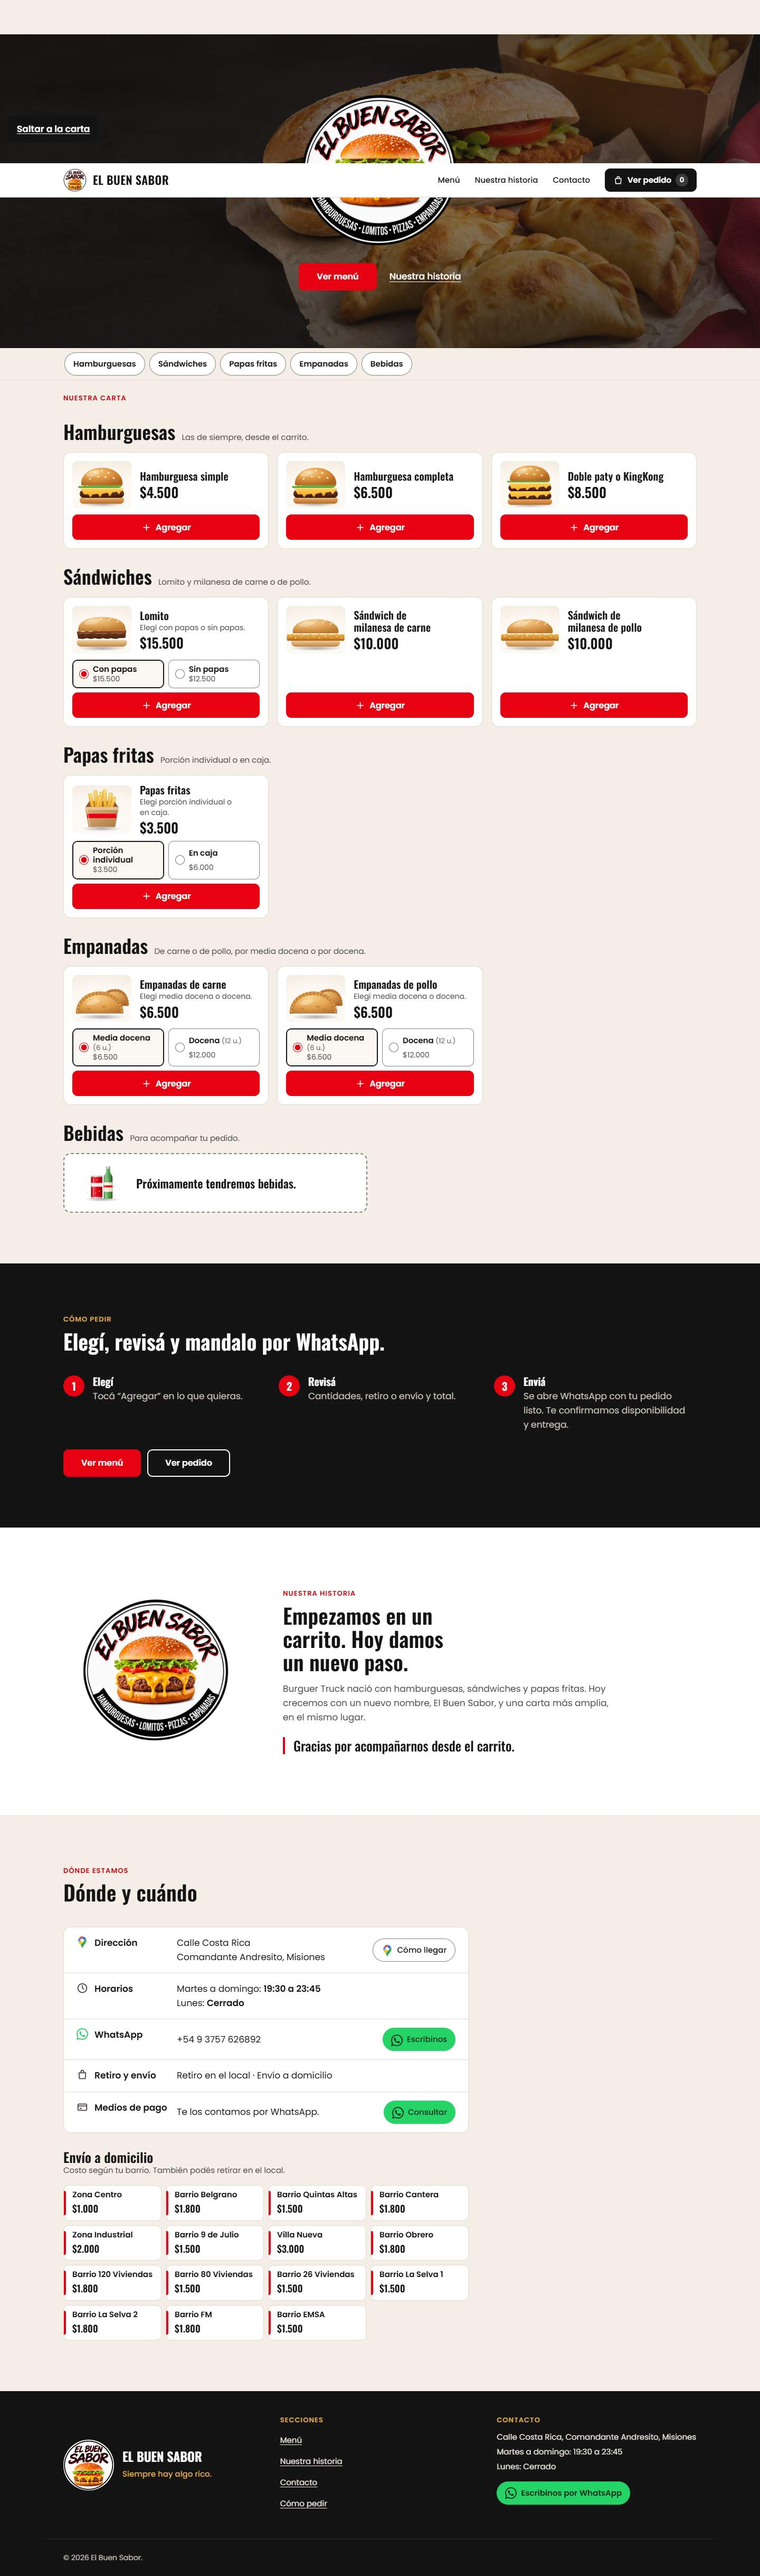
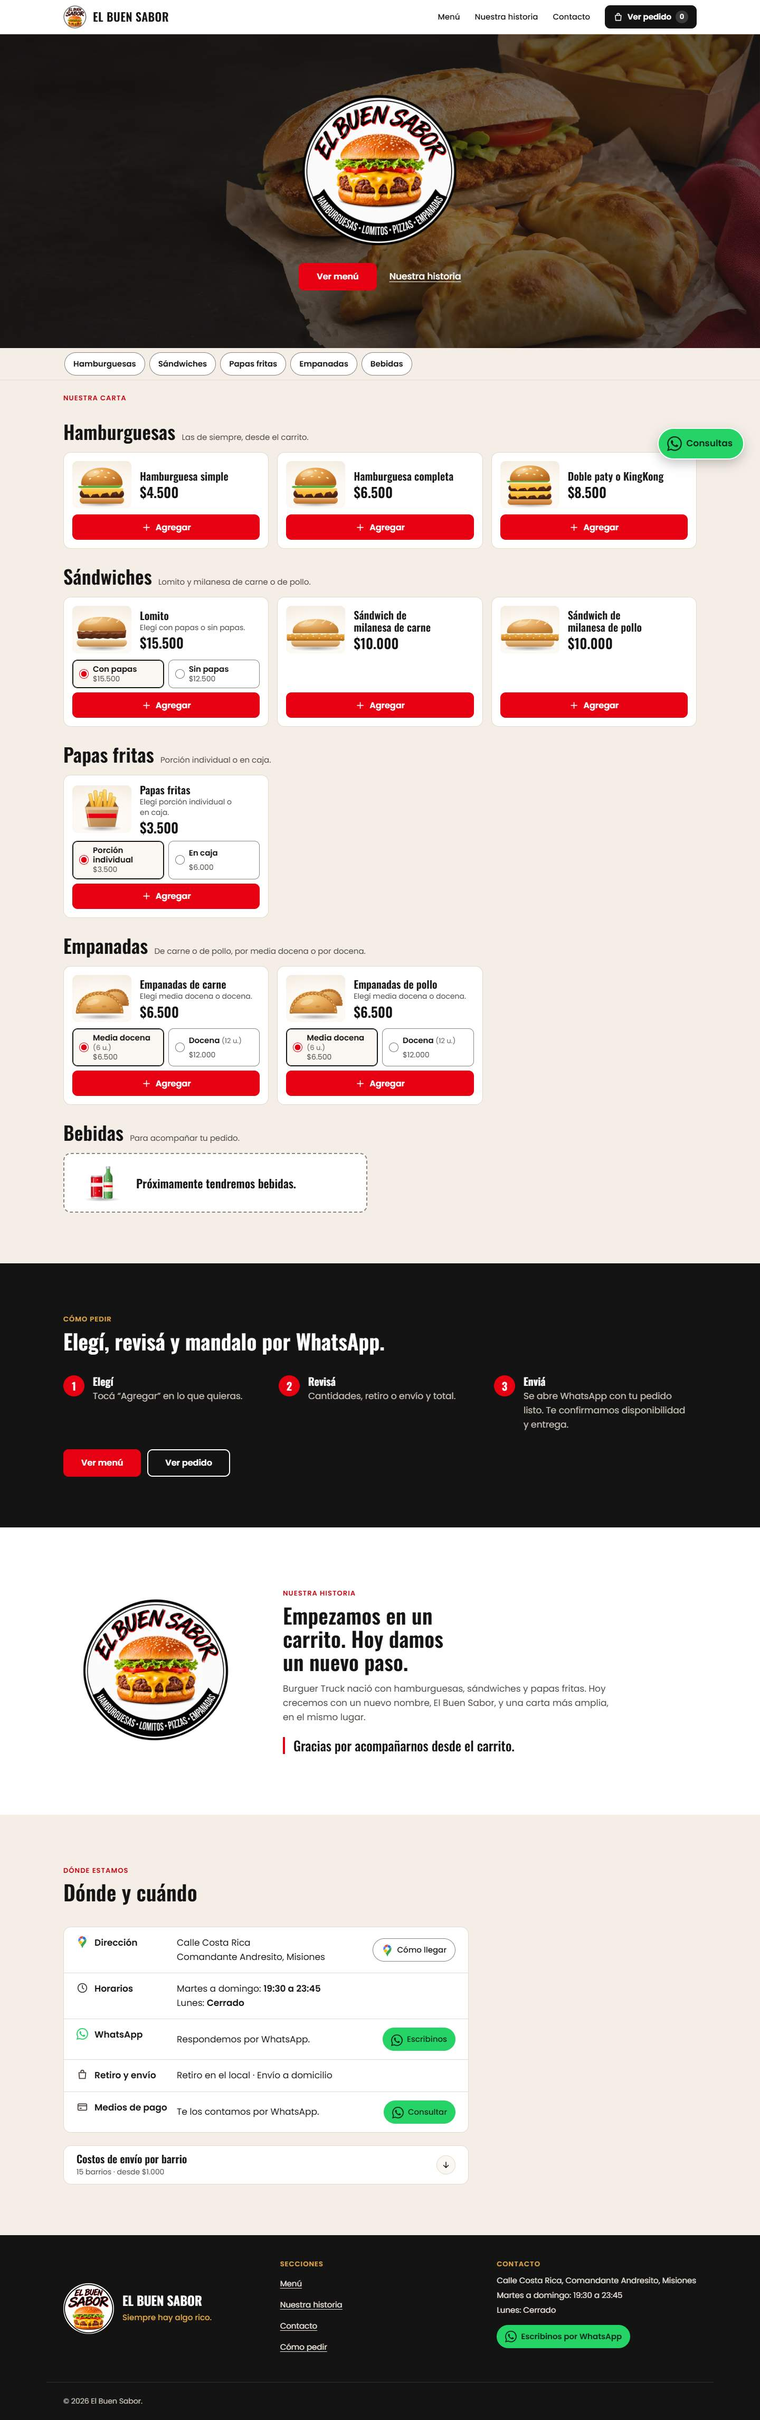
Barrios en desplegable, número oculto y botón flotante de WhatsApp
- Costos de envío por barrio dentro de un desplegable propio, cerrado por
  defecto (funciona con teclado y sin JavaScript).
- Sin número visible: el contacto es el botón con el logo de WhatsApp.
- Botón flotante de WhatsApp para consultas; sube cuando aparece la barra
  "Ver pedido" para no taparla.

Changed region(s): [[0.0, 0.0, 1.0, 0.9987], [0.1562, 0.0, 0.2188, 0.0312], [0.0938, 0.0, 0.125, 0.0312]]

diff --git a/index.html b/index.html
@@ -129,7 +129,7 @@
           <p class="eyebrow">Dónde estamos</p>
           <h2 class="section-title" id="location-title">Dónde y cuándo</h2>
         </header>
-        <!-- build:local-info --><dl class="info-list"><div class="info-list__row"><svg class="icon icon--logo" aria-hidden="true" focusable="false"><use href="#i-logo-maps"></use></svg><dt>Dirección</dt><dd><span>Calle Costa Rica<br>Comandante Andresito, Misiones</span><a class="btn-maps" href="https://maps.app.goo.gl/rrjarzStdaCkGc1o9" target="_blank" rel="noopener noreferrer"><svg class="icon icon--logo" aria-hidden="true" focusable="false"><use href="#i-logo-maps"></use></svg><span>Cómo llegar</span><span class="visually-hidden"> (se abre Google Maps)</span></a></dd></div><div class="info-list__row"><svg class="icon" aria-hidden="true" focusable="false"><use href="#i-clock"></use></svg><dt>Horarios</dt><dd><ul class="plain" role="list"><li>Martes a domingo: <strong>19:30 a 23:45</strong></li><li>Lunes: <strong>Cerrado</strong></li></ul></dd></div><div class="info-list__row"><svg class="icon icon--logo icon--wa" aria-hidden="true" focusable="false"><use href="#i-logo-whatsapp"></use></svg><dt>WhatsApp</dt><dd><span>+54 9 3757 626892</span><a class="btn-wa" href="https://wa.me/5493757626892?text=Hola%2C%20El%20Buen%20Sabor.%20Quiero%20hacer%20una%20consulta." target="_blank" rel="noopener noreferrer"><svg class="icon icon--logo" aria-hidden="true" focusable="false"><use href="#i-logo-whatsapp"></use></svg><span>Escribinos</span><span class="visually-hidden"> (se abre WhatsApp)</span></a></dd></div><div class="info-list__row"><svg class="icon" aria-hidden="true" focusable="false"><use href="#i-bag"></use></svg><dt>Retiro y envío</dt><dd>Retiro en el local · Envío a domicilio</dd></div><div class="info-list__row"><svg class="icon" aria-hidden="true" focusable="false"><use href="#i-card"></use></svg><dt>Medios de pago</dt><dd><span>Te los contamos por WhatsApp.</span><a class="btn-wa" href="https://wa.me/5493757626892?text=Hola%2C%20%C2%BFcu%C3%A1les%20son%20los%20medios%20de%20pago%3F" target="_blank" rel="noopener noreferrer"><svg class="icon icon--logo" aria-hidden="true" focusable="false"><use href="#i-logo-whatsapp"></use></svg><span>Consultar</span><span class="visually-hidden"> (se abre WhatsApp)</span></a></dd></div></dl><section class="zones" aria-labelledby="zones-title"><div class="zones__head"><h3 class="zones__title" id="zones-title">Envío a domicilio</h3><p class="zones__sub">Costo según tu barrio. También podés retirar en el local.</p></div><ul class="zones__list" role="list"><li class="zones__item"><span class="zones__name">Zona Centro</span><span class="zones__fee">$1.000</span></li><li class="zones__item"><span class="zones__name">Barrio Belgrano</span><span class="zones__fee">$1.800</span></li><li class="zones__item"><span class="zones__name">Barrio Quintas Altas</span><span class="zones__fee">$1.500</span></li><li class="zones__item"><span class="zones__name">Barrio Cantera</span><span class="zones__fee">$1.800</span></li><li class="zones__item"><span class="zones__name">Zona Industrial</span><span class="zones__fee">$2.000</span></li><li class="zones__item"><span class="zones__name">Barrio 9 de Julio</span><span class="zones__fee">$1.500</span></li><li class="zones__item"><span class="zones__name">Villa Nueva</span><span class="zones__fee">$3.000</span></li><li class="zones__item"><span class="zones__name">Barrio Obrero</span><span class="zones__fee">$1.800</span></li><li class="zones__item"><span class="zones__name">Barrio 120 Viviendas</span><span class="zones__fee">$1.800</span></li><li class="zones__item"><span class="zones__name">Barrio 80 Viviendas</span><span class="zones__fee">$1.500</span></li><li class="zones__item"><span class="zones__name">Barrio 26 Viviendas</span><span class="zones__fee">$1.500</span></li><li class="zones__item"><span class="zones__name">Barrio La Selva 1</span><span class="zones__fee">$1.500</span></li><li class="zones__item"><span class="zones__name">Barrio La Selva 2</span><span class="zones__fee">$1.800</span></li><li class="zones__item"><span class="zones__name">Barrio FM</span><span class="zones__fee">$1.800</span></li><li class="zones__item"><span class="zones__name">Barrio EMSA</span><span class="zones__fee">$1.500</span></li></ul></section><!-- /build:local-info -->
+        <!-- build:local-info --><dl class="info-list"><div class="info-list__row"><svg class="icon icon--logo" aria-hidden="true" focusable="false"><use href="#i-logo-maps"></use></svg><dt>Dirección</dt><dd><span>Calle Costa Rica<br>Comandante Andresito, Misiones</span><a class="btn-maps" href="https://maps.app.goo.gl/rrjarzStdaCkGc1o9" target="_blank" rel="noopener noreferrer"><svg class="icon icon--logo" aria-hidden="true" focusable="false"><use href="#i-logo-maps"></use></svg><span>Cómo llegar</span><span class="visually-hidden"> (se abre Google Maps)</span></a></dd></div><div class="info-list__row"><svg class="icon" aria-hidden="true" focusable="false"><use href="#i-clock"></use></svg><dt>Horarios</dt><dd><ul class="plain" role="list"><li>Martes a domingo: <strong>19:30 a 23:45</strong></li><li>Lunes: <strong>Cerrado</strong></li></ul></dd></div><div class="info-list__row"><svg class="icon icon--logo icon--wa" aria-hidden="true" focusable="false"><use href="#i-logo-whatsapp"></use></svg><dt>WhatsApp</dt><dd><span>Respondemos por WhatsApp.</span><a class="btn-wa" href="https://wa.me/5493757626892?text=Hola%2C%20El%20Buen%20Sabor.%20Quiero%20hacer%20una%20consulta." target="_blank" rel="noopener noreferrer"><svg class="icon icon--logo" aria-hidden="true" focusable="false"><use href="#i-logo-whatsapp"></use></svg><span>Escribinos</span><span class="visually-hidden"> (se abre WhatsApp)</span></a></dd></div><div class="info-list__row"><svg class="icon" aria-hidden="true" focusable="false"><use href="#i-bag"></use></svg><dt>Retiro y envío</dt><dd>Retiro en el local · Envío a domicilio</dd></div><div class="info-list__row"><svg class="icon" aria-hidden="true" focusable="false"><use href="#i-card"></use></svg><dt>Medios de pago</dt><dd><span>Te los contamos por WhatsApp.</span><a class="btn-wa" href="https://wa.me/5493757626892?text=Hola%2C%20%C2%BFcu%C3%A1les%20son%20los%20medios%20de%20pago%3F" target="_blank" rel="noopener noreferrer"><svg class="icon icon--logo" aria-hidden="true" focusable="false"><use href="#i-logo-whatsapp"></use></svg><span>Consultar</span><span class="visually-hidden"> (se abre WhatsApp)</span></a></dd></div></dl><details class="zones"><summary class="zones__toggle"><span class="zones__toggle-text"><span class="zones__title">Costos de envío por barrio</span><span class="zones__sub">15 barrios · desde $1.000</span></span><svg class="icon zones__chevron" aria-hidden="true" focusable="false"><use href="#i-arrow"></use></svg></summary><div class="zones__body"><p class="zones__note">También podés retirar en el local sin costo.</p><ul class="zones__list" role="list"><li class="zones__item"><span class="zones__name">Zona Centro</span><span class="zones__fee">$1.000</span></li><li class="zones__item"><span class="zones__name">Barrio Belgrano</span><span class="zones__fee">$1.800</span></li><li class="zones__item"><span class="zones__name">Barrio Quintas Altas</span><span class="zones__fee">$1.500</span></li><li class="zones__item"><span class="zones__name">Barrio Cantera</span><span class="zones__fee">$1.800</span></li><li class="zones__item"><span class="zones__name">Zona Industrial</span><span class="zones__fee">$2.000</span></li><li class="zones__item"><span class="zones__name">Barrio 9 de Julio</span><span class="zones__fee">$1.500</span></li><li class="zones__item"><span class="zones__name">Villa Nueva</span><span class="zones__fee">$3.000</span></li><li class="zones__item"><span class="zones__name">Barrio Obrero</span><span class="zones__fee">$1.800</span></li><li class="zones__item"><span class="zones__name">Barrio 120 Viviendas</span><span class="zones__fee">$1.800</span></li><li class="zones__item"><span class="zones__name">Barrio 80 Viviendas</span><span class="zones__fee">$1.500</span></li><li class="zones__item"><span class="zones__name">Barrio 26 Viviendas</span><span class="zones__fee">$1.500</span></li><li class="zones__item"><span class="zones__name">Barrio La Selva 1</span><span class="zones__fee">$1.500</span></li><li class="zones__item"><span class="zones__name">Barrio La Selva 2</span><span class="zones__fee">$1.800</span></li><li class="zones__item"><span class="zones__name">Barrio FM</span><span class="zones__fee">$1.800</span></li><li class="zones__item"><span class="zones__name">Barrio EMSA</span><span class="zones__fee">$1.500</span></li></ul></div></details><!-- /build:local-info -->
       </div>
     </section>
   </main>
@@ -158,6 +158,7 @@
   <!-- build:barra-pedido --><div class="order-bar js-only" data-order-bar hidden>
   <button type="button" class="order-bar__btn" data-open-cart aria-haspopup="dialog"><span>Ver pedido</span><span class="order-bar__sum" data-cart-bar-summary></span></button>
 </div><!-- /build:barra-pedido -->
+  <!-- build:wa-flotante --><aside class="wa-fab-wrap" aria-label="Contacto rápido"><a class="wa-fab" href="https://wa.me/5493757626892?text=Hola%2C%20El%20Buen%20Sabor.%20Quiero%20hacer%20una%20consulta." target="_blank" rel="noopener noreferrer" aria-label="Consultar por WhatsApp (se abre WhatsApp)"><svg class="wa-fab__icon" aria-hidden="true" focusable="false"><use href="#i-logo-whatsapp"></use></svg><span class="wa-fab__label" aria-hidden="true">Consultas</span></a></aside><!-- /build:wa-flotante -->
   <!-- build:dialogo-pedido --><dialog class="cart" id="pedido" aria-labelledby="cart-title" data-cart>
   <div class="cart__panel">
     <header class="cart__head">

diff --git a/css/styles.css b/css/styles.css
@@ -693,24 +693,44 @@ textarea.field__input { min-height: 4.5rem; resize: vertical; }
 .info-list__row > .icon { width: 1.375rem; height: 1.375rem; margin-top: 1px; }
 .footer__wa { margin-top: var(--s-4); }
 
-/* ---------- Barrios con envío ---------- */
-.zones { margin-top: var(--s-6); max-width: 48rem; }
-.zones__head { margin-bottom: var(--s-4); }
-.zones__title { font-size: var(--fs-h3); }
-.zones__sub { color: var(--ink-2); font-size: 0.9375rem; }
+/* ---------- Barrios con envío (desplegable) ---------- */
+.zones { margin-top: var(--s-5); max-width: 48rem; background: var(--white); border: 1px solid var(--line); border-radius: var(--r-lg); overflow: hidden; }
+.zones__toggle {
+  display: flex; align-items: center; justify-content: space-between; gap: var(--s-3);
+  min-height: 4rem; padding: var(--s-3) var(--s-5);
+  cursor: pointer; list-style: none;
+}
+.zones__toggle::-webkit-details-marker { display: none; }
+.zones__toggle:hover .zones__title { text-decoration: underline; text-underline-offset: .2em; }
+.zones__toggle:focus-visible { outline: 3px solid var(--focus); outline-offset: -3px; }
+.zones__toggle-text { display: grid; gap: 2px; }
+.zones__title { font-family: var(--font-display); font-weight: 600; font-size: 1.25rem; line-height: 1.2; }
+.zones__sub { color: var(--ink-2); font-size: var(--fs-small); }
+.zones__chevron {
+  flex: none; width: 2.25rem; height: 2.25rem; padding: 8px;
+  border-radius: 50%; background: var(--surface-2); border: 1px solid var(--line);
+  transform: rotate(90deg); transition: transform .2s var(--ease);
+}
+.zones[open] .zones__chevron { transform: rotate(-90deg); }
+.zones__body { padding: 0 var(--s-4) var(--s-4); border-top: 1px solid var(--line); }
+.zones__note { padding-block: var(--s-3); color: var(--ink-2); font-size: var(--fs-small); }
 .zones__list { list-style: none; padding: 0; display: grid; gap: var(--s-2); grid-template-columns: repeat(auto-fill, minmax(min(100%, 9.5rem), 1fr)); }
 .zones__item {
   position: relative;
   display: flex; flex-direction: column; justify-content: center; gap: 2px;
   min-height: 3.75rem; padding: var(--s-2) var(--s-3) var(--s-2) var(--s-4);
-  background: var(--white); border: 1px solid var(--line); border-radius: var(--r);
+  background: var(--surface-2); border: 1px solid var(--line); border-radius: var(--r);
 }
 .zones__item::before {
   content: ""; position: absolute; left: 0; top: 10px; bottom: 10px; width: 4px;
   border-radius: 0 4px 4px 0; background: var(--red);
 }
 .zones__name { font-weight: 600; font-size: 0.9375rem; line-height: 1.25; }
-.zones__fee { flex: none; font-family: var(--font-display); font-weight: 600; font-size: 1.125rem; font-variant-numeric: tabular-nums; }
+.zones__fee { font-family: var(--font-display); font-weight: 600; font-size: 1.125rem; font-variant-numeric: tabular-nums; }
+@media (prefers-reduced-motion: no-preference) {
+  .zones[open] .zones__body { animation: zones-in .2s var(--ease); }
+}
+@keyframes zones-in { from { opacity: 0; transform: translateY(-4px); } to { opacity: 1; transform: none; } }
 
 /* Selección de barrio dentro del pedido: tarjetas propias, sin el desplegable del sistema. */
 .checkout__legend--sm { font-size: 1.0625rem; }
@@ -754,6 +774,35 @@ textarea.field__input { min-height: 4.5rem; resize: vertical; }
 .cart { inset: var(--vv-top, 0px) 0 auto auto; height: var(--vv-h, 100dvh); max-height: var(--vv-h, 100dvh); }
 .cart.is-typing .cart__foot { display: none; }
 .cart.is-typing .cart__body { padding-bottom: var(--s-8); }
+
+/* ---------- Botón flotante de WhatsApp (consultas) ---------- */
+.wa-fab {
+  position: fixed; right: max(var(--s-4), env(safe-area-inset-right)); bottom: max(var(--s-4), env(safe-area-inset-bottom));
+  z-index: var(--z-bar);
+  display: inline-flex; align-items: center; gap: var(--s-2);
+  height: 3.5rem; min-width: 3.5rem; padding: 0 1rem;
+  border-radius: 999px;
+  background: #25D366; color: #FFFFFF;
+  box-shadow: 0 0 0 2px #FFFFFF, 0 8px 22px rgba(20, 20, 20, .28);
+  text-decoration: none;
+  transition: transform .15s var(--ease), bottom .2s var(--ease), box-shadow .15s var(--ease);
+}
+.wa-fab:hover { transform: translateY(-2px); box-shadow: 0 0 0 2px #FFFFFF, 0 12px 26px rgba(20, 20, 20, .32); }
+.wa-fab:focus-visible { outline: 3px solid var(--carbon); outline-offset: 4px; }
+.wa-fab__icon { width: 1.75rem; height: 1.75rem; flex: none; }
+/* La etiqueta solo en pantallas anchas; en el celular queda el círculo con el logo. */
+.wa-fab__label { display: none; font-weight: 600; color: #0B2B1C; }
+@media (min-width: 52.5625rem) {
+  .wa-fab { right: var(--s-6); bottom: var(--s-6); padding: 0 1.25rem 0 1rem; }
+  .wa-fab__icon { color: #0B2B1C; }
+  .wa-fab__label { display: inline; }
+}
+@media (max-width: 52.5rem) { .wa-fab { width: 3.5rem; padding: 0; justify-content: center; } }
+/* Con la barra “Ver pedido” visible, el botón sube para no taparla. */
+body.has-order-bar .wa-fab { bottom: calc(5.25rem + env(safe-area-inset-bottom)); }
+@media (min-width: 52.5625rem) { body.has-order-bar .wa-fab { bottom: var(--s-6); } }
+@media (prefers-reduced-motion: reduce) { .wa-fab { transition: none; } }
+@media print { .wa-fab { display: none; } }
 
 /* ---------- 404 / aviso admin ---------- */
 .simple-page { min-height: 60vh; display: grid; align-content: center; gap: var(--s-4); padding-block: var(--section-y); }

diff --git a/js/core/render.js b/js/core/render.js
@@ -143,16 +143,33 @@ export function waButton(biz, text, label, cls = '') {
     + `<span>${esc(label)}</span>${ext('se abre WhatsApp')}</a>`;
 }
 
+/** Botón flotante de WhatsApp para consultas (no confirma pedidos). */
+export function renderWaFab(biz) {
+  const url = buildWhatsAppUrl(biz, CONTACT_MESSAGES.consulta);
+  if (!url) return '';
+  return `<aside class="wa-fab-wrap" aria-label="Contacto rápido"><a class="wa-fab" href="${esc(url)}" target="_blank" rel="noopener noreferrer" aria-label="Consultar por WhatsApp (se abre WhatsApp)">`
+    + '<svg class="wa-fab__icon" aria-hidden="true" focusable="false"><use href="#i-logo-whatsapp"></use></svg>'
+    + '<span class="wa-fab__label" aria-hidden="true">Consultas</span></a></aside>';
+}
+
 /** Barrios con su costo de envío. */
 export function renderZones(biz) {
   const env = biz.modalidades.envio;
   if (env.estado !== 'confirmado' || !env.zonas.length) return '';
   const fee = (z) => (z.tarifaEstado === 'confirmada' ? (z.tarifa === 0 ? 'Sin cargo' : formatARS(z.tarifa)) : 'A cotizar');
-  return `<section class="zones" aria-labelledby="zones-title">`
-    + `<div class="zones__head"><h3 class="zones__title" id="zones-title">Envío a domicilio</h3><p class="zones__sub">Costo según tu barrio. También podés retirar en el local.</p></div>`
+  const fees = env.zonas.filter((z) => z.tarifaEstado === 'confirmada').map((z) => z.tarifa);
+  const from = fees.length ? ` · desde ${formatARS(Math.min(...fees))}` : '';
+  // Desplegable propio (details/summary): cerrado por defecto, funciona sin JavaScript y con teclado.
+  return `<details class="zones">`
+    + `<summary class="zones__toggle">`
+    + `<span class="zones__toggle-text"><span class="zones__title">Costos de envío por barrio</span>`
+    + `<span class="zones__sub">${env.zonas.length} barrios${esc(from)}</span></span>`
+    + `<svg class="icon zones__chevron" aria-hidden="true" focusable="false"><use href="#i-arrow"></use></svg>`
+    + `</summary>`
+    + `<div class="zones__body"><p class="zones__note">También podés retirar en el local sin costo.</p>`
     + `<ul class="zones__list" role="list">`
     + env.zonas.map((z) => `<li class="zones__item"><span class="zones__name">${esc(z.nombre)}</span><span class="zones__fee">${esc(fee(z))}</span></li>`).join('')
-    + `</ul></section>`;
+    + `</ul></div></details>`;
 }
 
 /** Datos del local (sección #location). */
@@ -171,7 +188,7 @@ export function renderBusinessInfo(biz) {
   const wa = biz.whatsapp;
   const waLogo = '<svg class="icon icon--logo icon--wa" aria-hidden="true" focusable="false"><use href="#i-logo-whatsapp"></use></svg>';
   rows.push([waLogo, 'WhatsApp', wa.estado === 'confirmado'
-    ? `<span>${esc(waDisplay(wa.numero))}</span>${waButton(biz, CONTACT_MESSAGES.consulta, 'Escribinos')}`
+    ? `<span>Respondemos por WhatsApp.</span>${waButton(biz, CONTACT_MESSAGES.consulta, 'Escribinos')}`
     : PENDING]);
   const m = biz.modalidades;
   const modes = [];

diff --git a/js/core/build-core.js b/js/core/build-core.js
@@ -4,7 +4,7 @@
 import { validateCatalog, validateBusiness } from './schema.js';
 import {
   renderMenu, renderCategoryNav, renderBusinessInfo,
-  renderFooterContact, renderJsonLd, hasPendingInfo, esc, renderHeroBackground,
+  renderFooterContact, renderJsonLd, hasPendingInfo, esc, renderHeroBackground, renderWaFab,
 } from './render.js';
 import { SPRITE } from './icons.js';
 import { header, footer, cartDialog, ORDER_BAR, LIVE_REGION } from './layout.js';
@@ -61,6 +61,7 @@ export function buildOutputs({ catalog, business }) {
       : '',
     'live-region': LIVE_REGION,
     'barra-pedido': ORDER_BAR,
+    'wa-flotante': renderWaFab(business),
     jsonld: renderJsonLd(catalog, business, { image: shareImage }),
     'portada-fondo': renderHeroBackground(business),
     'menu-nav': renderCategoryNav(catalog),

diff --git a/docs/AUDITORIA.md b/docs/AUDITORIA.md
@@ -148,3 +148,4 @@ Detalle completo en `assets/img/manifest.json`. Originales en `_originales/` (no
 - Fondo: fotos reales subidas desde el panel (hasta 6, rotan cada 6 s; no rotan con “reducir movimiento”). Mientras no haya, se usa la imagen actual.
 - Prueba en Samsung Galaxy A33 (Android 16, Chrome 157) por adb + DevTools, contra el servidor local: viewport 411 × 780, sin desborde; categoría activa y título bajo la barra; barra “Ver pedido · 2 productos · $18.500”; al tocar Nombre y Referencia aparece el teclado real (área visible 386–450 px), el pie se oculta y el campo queda a la vista; al cerrar, vuelve el pie con el total $21.500 (envío a Villa Nueva $3.000); mensaje y destino de WhatsApp correctos; sin errores de JavaScript.
 - Durante la prueba el panel de notificaciones del teléfono estaba abierto: esas capturas se descartaron sin conservarlas. Falta una captura del teclado sobre la web.
+- Costos de envío por barrio en un desplegable propio (cerrado por defecto). Número de WhatsApp oculto: solo el botón con el logo. Botón flotante de WhatsApp para consultas, que sube cuando aparece la barra del pedido.
